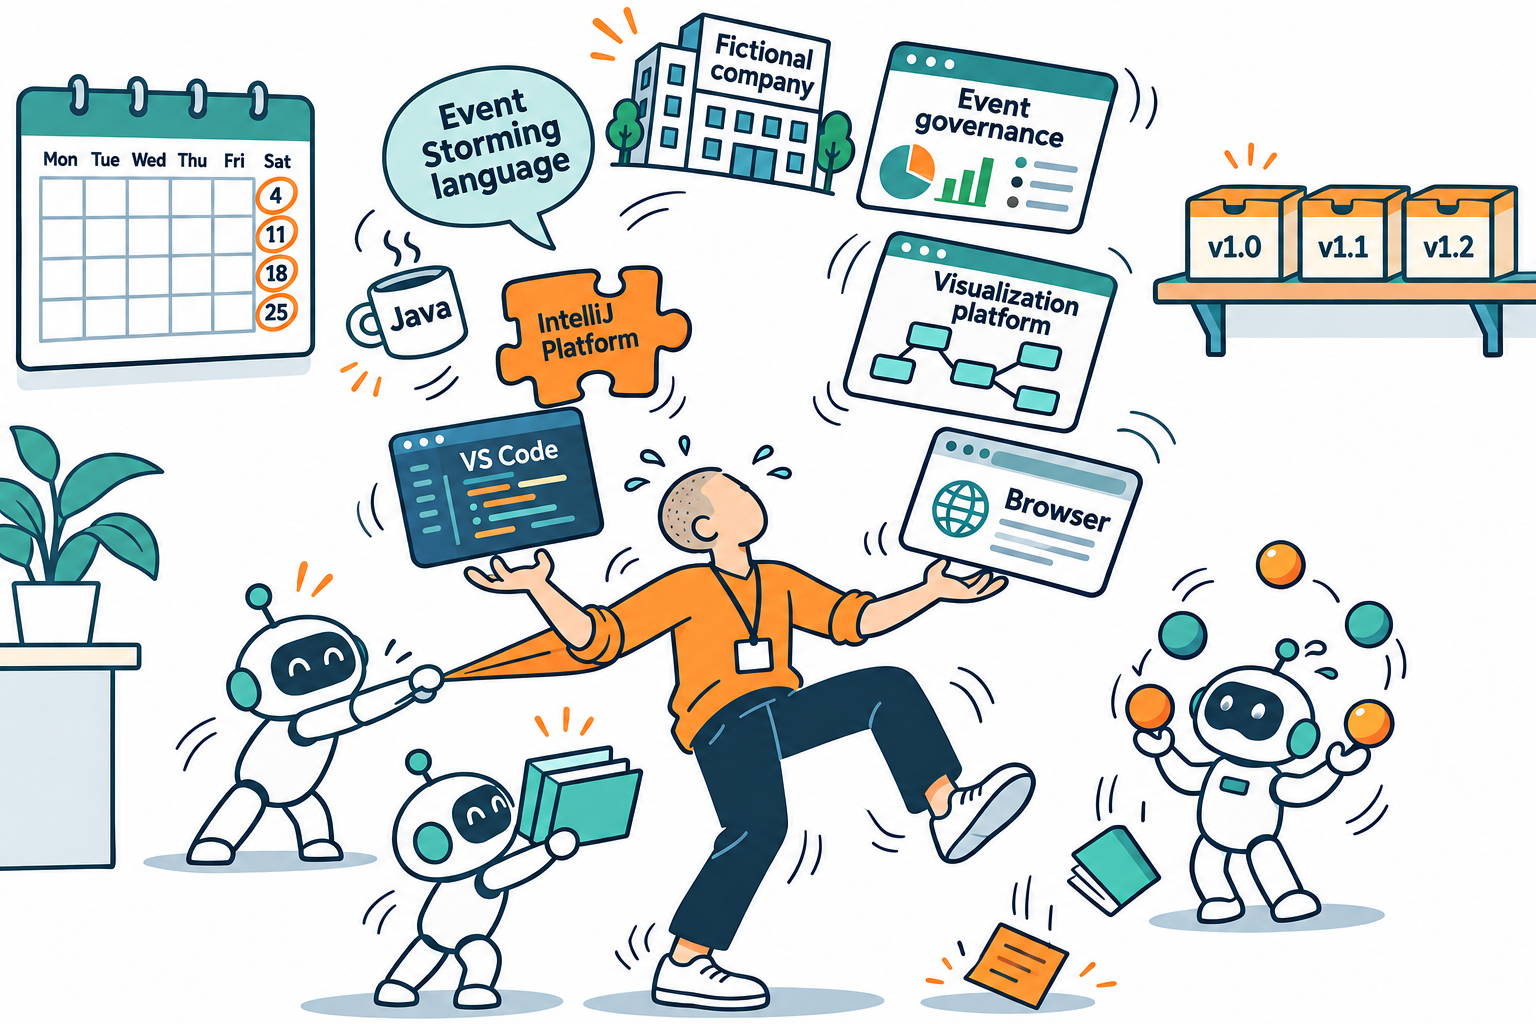
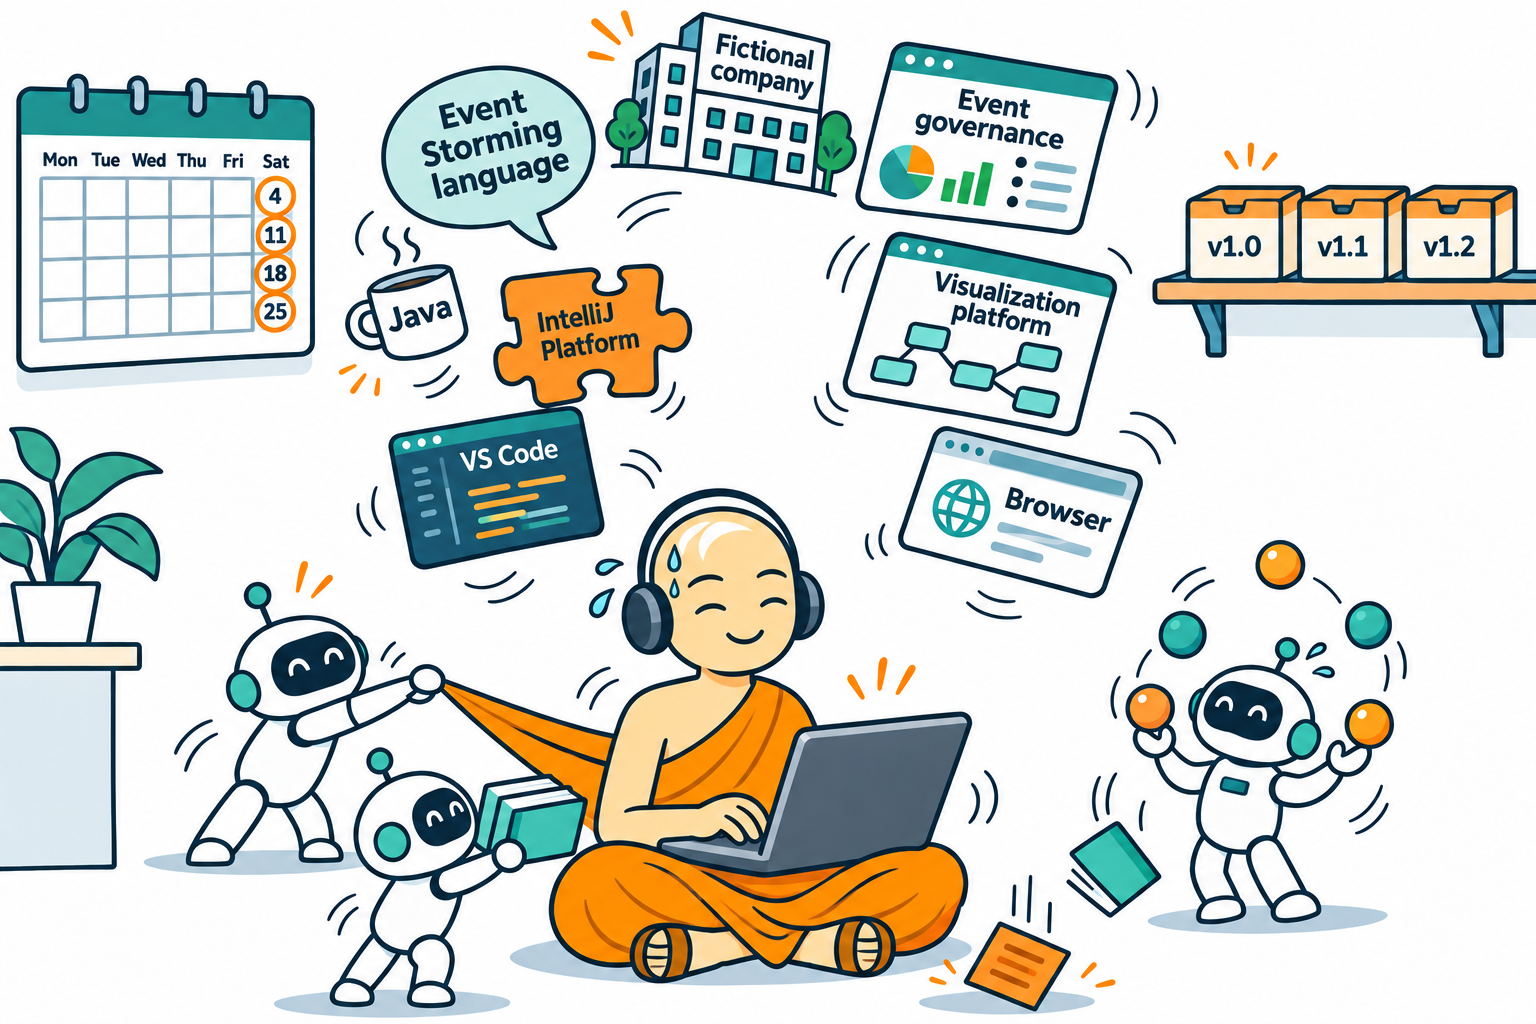
feat: juego con sentido deck: triad slide, monk image

diff --git a/talks/2026-11-24-juego-con-sentido/slides.md b/talks/2026-11-24-juego-con-sentido/slides.md
@@ -248,6 +248,41 @@ title: 'Arcadia Editions @ GitHub'
 
 ---
 layout: default
+title: 'What I was building this year'
+---
+
+<div class="triad">
+  <div class="tri">
+    <div class="tri-img sketch"><div class="es-crop"><img src="/Layered-EventStorming-Blueprint-Stack.png" /></div></div>
+    <h3>ZFL</h3>
+    <p>Event Storming as Code</p>
+  </div>
+  <div class="tri">
+    <img src="/arcadia-editions-logo.png" class="tri-img contain" />
+    <h3>API & Event Governance</h3>
+  </div>
+  <div class="tri">
+    <div class="tri-img icon"><carbon-flow-modeler /></div>
+    <h3>Architecture World Model</h3>
+    <p>VS Code, IntelliJ, browser</p>
+  </div>
+</div>
+
+<style>
+.triad { display: grid; grid-template-columns: repeat(3, 1fr); gap: 36px; margin-top: 30px; text-align: center; }
+.tri-img { width: 100%; height: 170px; object-fit: cover; border-radius: 8px; }
+.tri-img.contain { object-fit: contain; }
+.tri-img.sketch { display: flex; align-items: center; }
+.es-crop { position: relative; overflow: hidden; width: 100%; aspect-ratio: 1380 / 430; transform: rotate(-15deg) scale(1.15); }
+.es-crop img { position: absolute; width: 121.1%; max-width: none; left: -13.04%; top: -4.65%; }
+.tri-img.sketch { overflow: visible; }
+.tri-img.icon { display: flex; align-items: center; justify-content: center; font-size: 130px; color: #00abc5; background: #f2f5f8; }
+.tri h3 { margin: 18px 0 4px !important; font-size: 26px !important; color: #31394d; }
+.tri p { margin: 0 !important; font-size: 20px; color: #6b7785; }
+</style>
+
+---
+layout: default
 title: 'Too many balls in the air'
 ---
 
